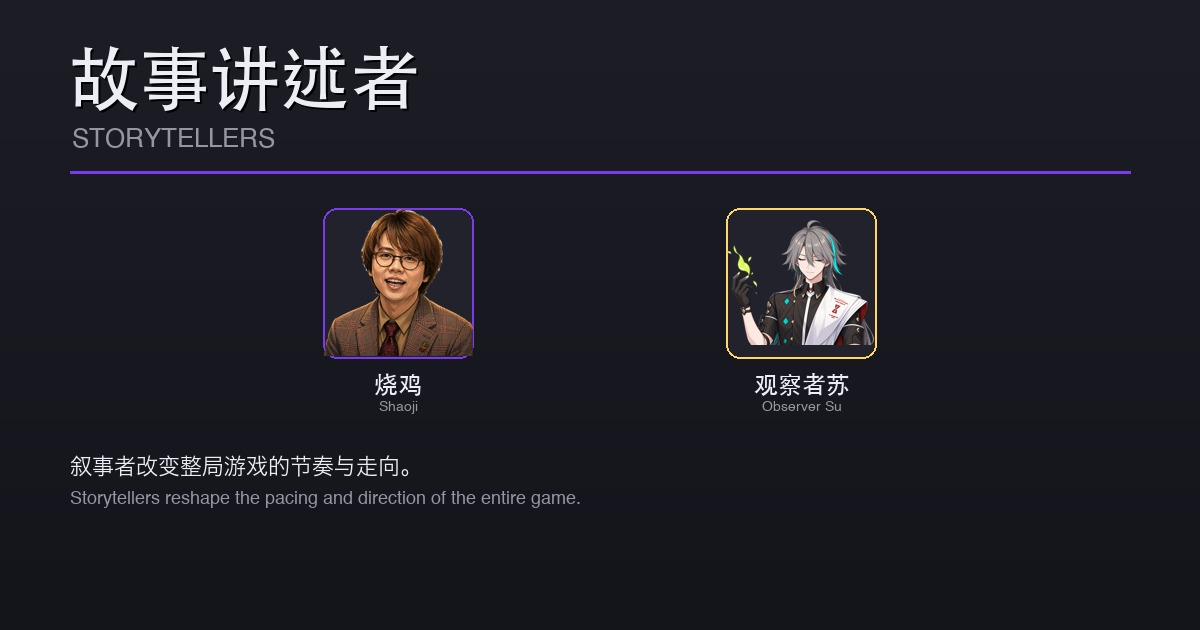
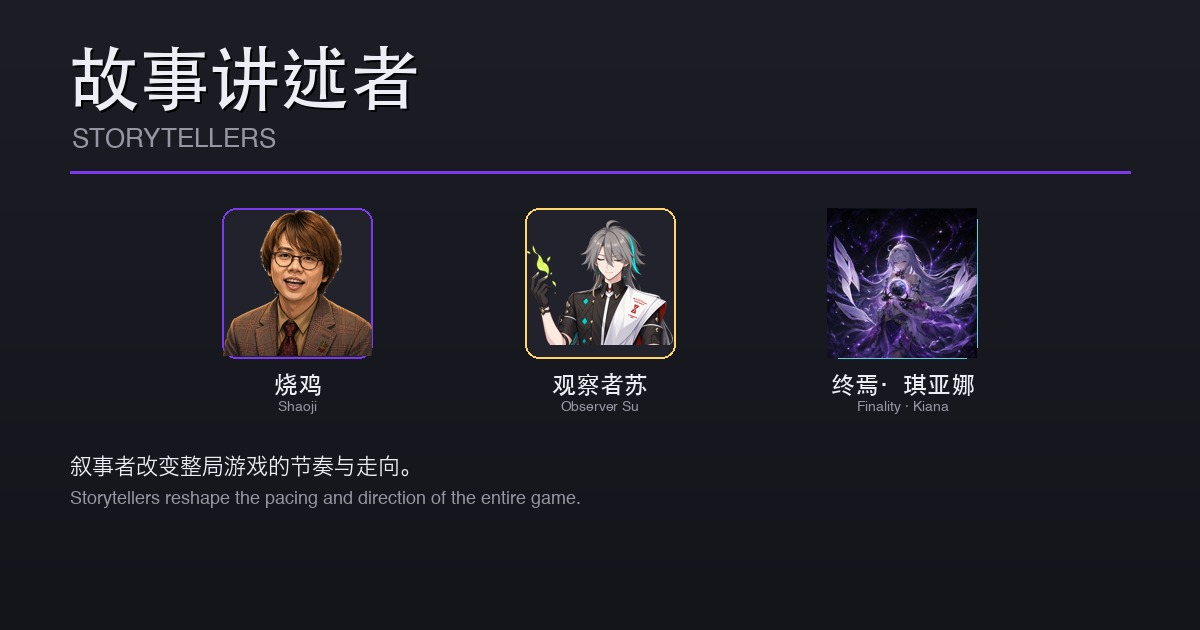
docs: prepare 0.1.0 beta release

diff --git a/README.md b/README.md
@@ -8,6 +8,9 @@
 **⚠ 声明：本项目为「非官方、非商业」的粉丝向同人作品，与 miHoYo（米哈游）无任何隶属或合作关系，仅用于学习与交流，完全免费、不收取任何费用。**
 **⚠ Disclaimer: This is an UNOFFICIAL, NON-COMMERCIAL fan project. It is not affiliated with, sponsored by, or endorsed by miHoYo in any way. Completely free.**
 
+> [!WARNING]
+> **当前版本仅用于 Beta 内测。** 本次发布旨在发现并修复错误与 Bug，不保证稳定性、存档兼容性或与其他 Mod 的兼容性，也不保证中途加入现有存档后能够正常运行。请在测试前备份存档；遇到问题请通过 QQ 群或 [GitHub Issues](https://github.com/ALANotFound/RimHonkai-Releases/issues) 反馈。
+
 ## 下载 / Download
 
 请前往 [Releases](https://github.com/ALANotFound/RimHonkai-Releases/releases) 下载最新版本：
@@ -24,7 +27,7 @@
 
 - **崩坏能**既是力量也是侵蚀，你要在攫取力量与抵御侵蚀之间走钢丝；
 - 你的小人可以从凡人一步步成长为**律者**，觉醒独一无二的**权能**，甚至登临终焉；
-- 崩坏不会安分——律者入侵、终焉之茧觉醒、第 N 次崩坏会一次次考验你的据点；
+- 崩坏不会安分——律者入侵、终焉之茧的注视、第 N 次崩坏会一次次考验你的据点；
 - 从修炼、圣痕、融合战士到神之键，这是一条可以长期投入的养成线。
 
 你的殖民地将不再只是一个求生的聚落，而是一个与崩坏共舞、书写自己「崩坏史」的据点。
@@ -91,10 +94,12 @@ Mod 新增了大量功能建筑，覆盖能源、生命、空间与算力：
 
 ![崩坏兽](images/intro_beasts.jpg)
 
-### 律者袭击与世界冲突：崩坏找上门
-崩坏不会安分地待在殖民地之外——理、空、炎之律者会作为世界级敌人来袭，**终焉之茧觉醒**、**第 N 次崩坏**等大事件将不断考验你的殖民地。
+### 大型事件链：文明越强，崩坏越强
+当文明的光芒足够耀眼，**终焉之茧便会投下注视**。由此开启贯穿世界地图的大型事件链：第 N 次崩坏爆发，律者在派系据点与殖民地间转移，诸方势力发出求援，而你决定迎战、救援或暂不介入。
 
-![律者袭击](images/intro_invasions.jpg)
+事件链开启后，**文明适应**会随财富、人口、研究与崩坏科技持续增强敌人。与苏保持通讯，借「恒沙计划」预警和观测灾难，追寻逐火之蛾遗迹，获取并解析前文明资料，不断解锁新的科技、寻找对抗崩坏的方法，最终尝试跨越终焉。
+
+![逐火之蛾遗产](images/intro_invasions.jpg)
 
 ### 派系周旋：多方势力之间
 在多方势力间周旋：加入**天命**接取任务、召唤支援、晋升女武神，与**逆熵**、**世界蛇**既博弈也联手，最终共同对抗派系**崩坏意志**。
@@ -104,7 +109,8 @@ Mod 新增了大量功能建筑，覆盖能源、生命、空间与算力：
 ### 故事讲述者：你的「崩坏史」由谁讲述
 新增的叙事者会改变你整局游戏的节奏与走向：
 - **苏（观察者）**：逐火之蛾的执行者，借第二神之键执行「恒沙计划」，观测无数世界；
-- **烧鸡**：“这是一个积极阳光，健康向上的故事。”
+- **烧鸡**：“这是一个积极阳光，健康向上的故事。”；
+- **终焉·琪亚娜**：她曾亲自面对终焉，如今已获得终焉之茧的认可，成为完整的终焉之律者。她会守护这个世界，让文明拥有成长与选择未来的时间。该讲述者不会随机安排袭击及敌对威胁，适合偏好种田与建设的玩家。
 
 ![故事讲述者](images/intro_storytellers.jpg)
 
@@ -153,6 +159,7 @@ Mod 新增了大量功能建筑，覆盖能源、生命、空间与算力：
 | 渠道 | 链接 |
 | --- | --- |
 | QQ 群 | 1041390182 |
+| GitHub Issues | [提交问题](https://github.com/ALANotFound/RimHonkai-Releases/issues) |
 | B站 | [@山鸟鱼泽](https://b23.tv/JKnbCbV) |
 | Steam 创意工坊 | （发布后填入） |
 
@@ -174,6 +181,9 @@ Mod 新增了大量功能建筑，覆盖能源、生命、空间与算力：
 
 **⚠ Disclaimer: This is an UNOFFICIAL, NON-COMMERCIAL fan project. It is not affiliated with, sponsored by, or endorsed by miHoYo in any way. Completely free.**
 
+> [!WARNING]
+> **The current release is a Beta build intended solely for public testing.** It is provided to identify and fix errors and bugs. Stability, save compatibility, compatibility with other mods, and safe addition to an existing save are not guaranteed. Back up your saves before testing, and report issues through the QQ group or [GitHub Issues](https://github.com/ALANotFound/RimHonkai-Releases/issues).
+
 ## Download
 
 Get the latest release from [Releases](https://github.com/ALANotFound/RimHonkai-Releases/releases):
@@ -190,7 +200,7 @@ RimHonkai doesn't just add a few weapons or enemies to RimWorld — it transplan
 
 - **Honkai energy** is both power and erosion; you'll walk a tightrope between seizing strength and resisting corruption;
 - Your pawns can grow from ordinary colonists into **Herrschers**, awakening unique **Authorities**, and even approach the Finality;
-- The Honkai won't stay idle — Herrscher invasions, the Final Cocoon Awakening, and the N-th Collapse will keep testing your base;
+- The Honkai won't stay idle — Herrscher invasions, the Final Cocoon's gaze, and the N-th Collapse will keep testing your base;
 - From cultivation, Stigmata and Fusion Warriors to Divine Keys, this is a long-term progression you can sink into.
 
 Your colony stops being a mere survival settlement and becomes a stronghold dancing with the Honkai, writing its own "Honkai history".
@@ -258,10 +268,12 @@ Honkai beasts march across scorched earth — lesser swarms like a tide, the Hon
 
 ![崩坏兽](images/intro_beasts.jpg)
 
-### Herrscher Invasions & World Conflicts: The Honkai Comes for You
-The Honkai will not stay outside — the Herrschers of Reason, Void and Flame attack as world-level enemies, and events like the **Final Cocoon Awakening** and **the N-th Collapse** will keep testing your colony.
+### Major Event Chain: The Stronger Civilization Grows, the Stronger Honkai Becomes
+When civilization shines brightly enough, **the Final Cocoon turns its gaze upon this world**. A world-spanning event chain begins: the N-th Collapse erupts, Herrschers move between faction settlements and player colonies, powers call for aid, and you choose whether to confront them, intervene, or stand aside.
 
-![Herrscher Invasions](images/intro_invasions.jpg)
+Once the chain begins, **Civilization Adaptation** strengthens enemies alongside your wealth, population, research, and Honkai technology. Stay in contact with Su, use Project Valuka to anticipate disasters, seek out Fire Moth ruins, analyze archives from the Previous Era, and unlock new technologies—always searching for a way to resist the Honkai and, at last, cross the Finality.
+
+![Legacy of Fire Moth](images/intro_invasions.jpg)
 
 ### Faction Politics: Between Great Powers
 Navigate between factions: join **Schicksal** to take on missions, call in support and promote Valkyries, both contesting and allying with **Anti-Entropy** and **World Serpent**, and ultimately standing together against the faction of the **Honkai Will**.
@@ -271,7 +283,8 @@ Navigate between factions: join **Schicksal** to take on missions, call in suppo
 ### Storytellers: Who Narrates Your Honkai History
 New storytellers change the pace and direction of your entire game:
 - **Su (the Observer)**: an executor of Valuka, observing countless worlds via the Second Divine Key under the "Project Ember";
-- **Shaoji**: another storyteller with a distinct style.
+- **Shaoji**: another storyteller with a distinct style;
+- **Finality · Kiana**: she once faced Finality herself and has now earned the Final Cocoon's recognition as the complete Herrscher of Finality. She protects this world and gives civilization time to grow and choose its future. This storyteller does not schedule random raids or hostile threats, making her suited to farming and construction-focused games.
 
 ![故事讲述者](images/intro_storytellers.jpg)
 
@@ -320,6 +333,7 @@ Soulium-based pseudo-life tech builds a defense line against erosion — the mod
 | Channel | Link |
 | --- | --- |
 | QQ group | 1041390182 |
+| GitHub Issues | [Report an issue](https://github.com/ALANotFound/RimHonkai-Releases/issues) |
 | Bilibili | [@山鸟鱼泽](https://b23.tv/JKnbCbV) |
 | Steam Workshop | (to be filled after release) |
 
